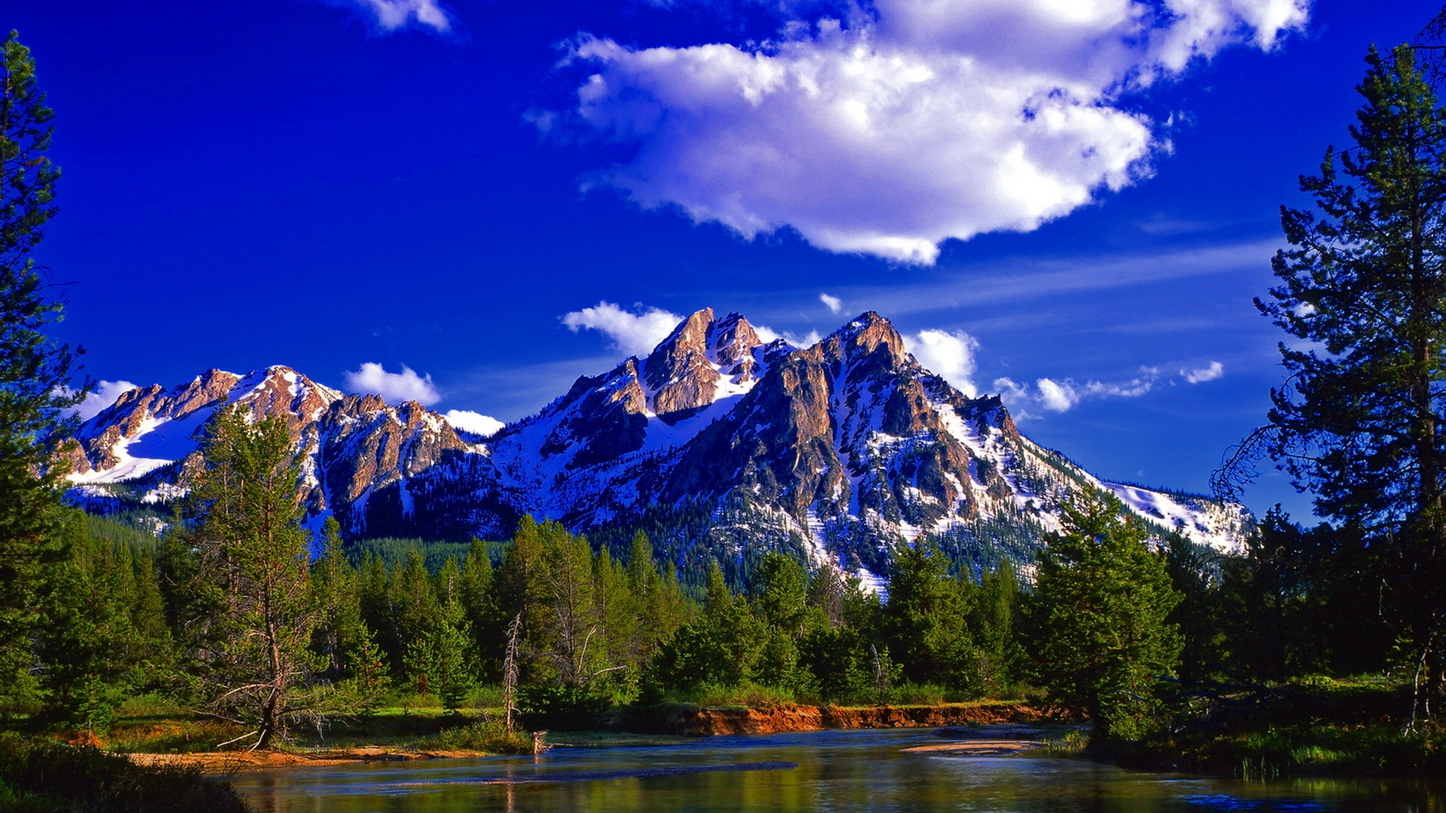
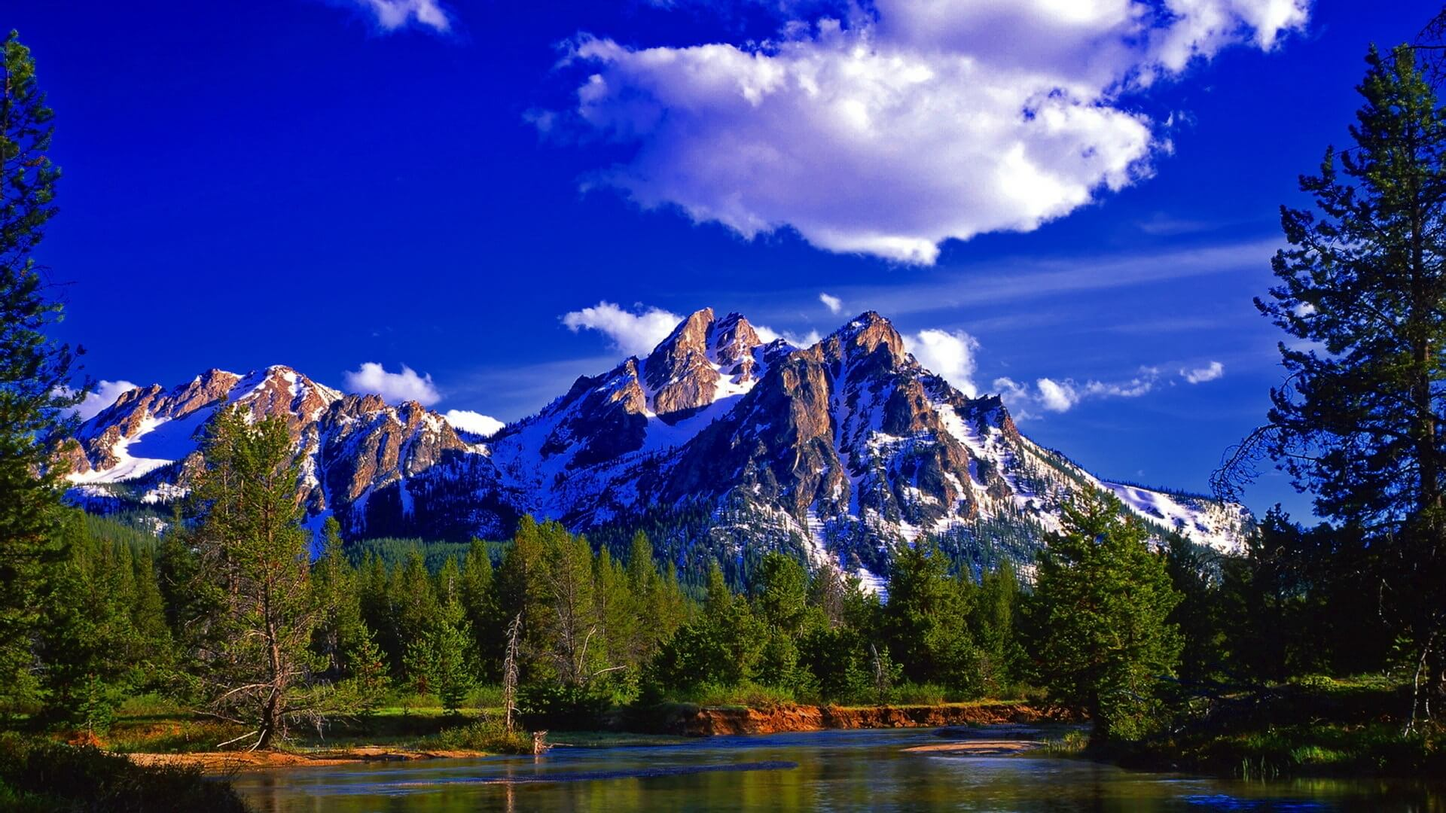
Added font and compressed images

diff --git a/blog.html b/blog.html
@@ -12,6 +12,7 @@
     <link rel="stylesheet" href="bootstrap/css/bootstrap.min.css">
     <!-- CSS -->
     <link rel="stylesheet" href="https://cdnjs.cloudflare.com/ajax/libs/font-awesome/4.7.0/css/font-awesome.min.css">
+    <link href="https://fonts.googleapis.com/css?family=Playfair+Display" rel="stylesheet">
     <link rel="stylesheet" href="style.css">
     <link rel="icon" type="image/x-icon" href="images/favicon.ico">
 </head>

diff --git a/contact.html b/contact.html
@@ -12,6 +12,7 @@
     <link rel="stylesheet" href="bootstrap/css/bootstrap.min.css">
     <!-- CSS -->
     <link rel="stylesheet" href="https://cdnjs.cloudflare.com/ajax/libs/font-awesome/4.7.0/css/font-awesome.min.css">
+    <link href="https://fonts.googleapis.com/css?family=Playfair+Display" rel="stylesheet">
     <link rel="stylesheet" href="style.css">
     <link rel="icon" type="image/x-icon" href="images/favicon.ico">
 </head>

diff --git a/projects.html b/projects.html
@@ -12,6 +12,7 @@
     <link rel="stylesheet" href="bootstrap/css/bootstrap.min.css">
     <!-- CSS -->
     <link rel="stylesheet" href="https://cdnjs.cloudflare.com/ajax/libs/font-awesome/4.7.0/css/font-awesome.min.css">
+    <link href="https://fonts.googleapis.com/css?family=Playfair+Display" rel="stylesheet">
     <link rel="stylesheet" href="style.css">
     <link rel="icon" type="image/x-icon" href="images/favicon.ico">
 </head>

diff --git a/index.html b/index.html
@@ -12,6 +12,7 @@
   <link rel="stylesheet" href="bootstrap/css/bootstrap.min.css">
   <!-- CSS -->
   <link rel="stylesheet" href="https://cdnjs.cloudflare.com/ajax/libs/font-awesome/4.7.0/css/font-awesome.min.css">
+  <link href="https://fonts.googleapis.com/css?family=Playfair+Display" rel="stylesheet">
   <link rel="stylesheet" href="style.css">
   <link rel="icon" type="image/x-icon" href="images/favicon.ico">
 </head>

diff --git a/style.css b/style.css
@@ -2,6 +2,10 @@
     html{font-size: 90%;}
 }
 
+body {
+    font-family: "Playfair Display", serif;
+}
+
 footer {
     background-color: #191919;
     color: white;
